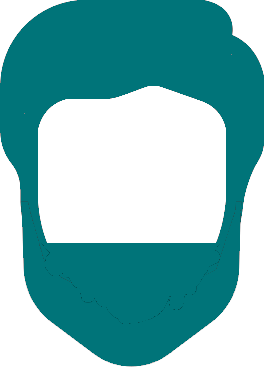
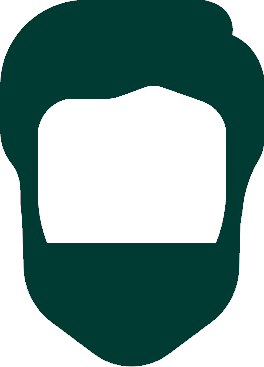
change to dark green

diff --git a/main.css b/main.css
@@ -15,6 +15,8 @@ Aqua: #006266
 Yellow: #F79F1F
 Orange: #EE5A24
 
+Dark Green: #003b33;
+
 -->
 
 /*
@@ -123,7 +125,7 @@ background-color: #ecf0f1;
 */
 
 .spacing {
-    background-color: #006266;
+    background-color: #003b33;
 }
 
 .spacing .container h1 {
@@ -138,7 +140,7 @@ background-color: #ecf0f1;
 }
 
 .links {
-    background-color: #006266;
+    background-color: #003b33;
     height: auto;
 }
 
@@ -150,8 +152,8 @@ background-color: #ecf0f1;
 }
 
 .links .container .row .col-md-3 .thumbnail {
-    background-color: #006266;
-    border: 1px solid #006266;
+    background-color: #003b33;
+    border: 1px solid #003b33;
     position: relative;
     top: 10px;
     padding-top: 15px;
@@ -174,7 +176,7 @@ background-color: #ecf0f1;
 
 .bottom-box {
     padding-top:10px;
-    background-color:#006266;
+    background-color:#003b33;
 }
 
 
@@ -195,7 +197,7 @@ a.otherlink:visited {
 }
 
 .custom-nav {
-    background-color:#006266;
+    background-color:#003b33;
     min-height:100px;
 }
 
@@ -235,7 +237,7 @@ a.otherlink:visited {
     font-size:20px;
     font-weight:400;
     line-height:1.6;
-    color:#006266;
+    color:#003b33;
     margin-bottom: 2rem;
 }
 
@@ -251,7 +253,7 @@ a.otherlink:visited {
     font-family:'Deja Vu', sans-serif;
     font-size:16px;
     font-weight:400;
-    color:#006266;
+    color:#003b33;
     font-style: italic;
     padding-top:1rem;
     width:70%;
@@ -264,7 +266,7 @@ a.otherlink:visited {
     font-family:'League Spartan Bold', 'Deja Vu', sans-serif;
     font-size:18px;
     font-weight:600;
-    color:#006266;
+    color:#003b33;
 }
 
 .beard-highlight {
@@ -292,7 +294,7 @@ a.otherlink:visited {
 }
 
 .ui-slider {
-    background-color:#006266!important;
+    background-color:#003b33!important;
     height:0.75em!important;
 }
 
@@ -307,10 +309,10 @@ a.otherlink:visited {
     content: url(slider_arrows_small.png);
     height:10px;
 /*    font-size:.5rem;*/
-    color:#006266;
+    color:#003b33;
     position:absolute;
-    top:-3px;
-    left:1px;
+    top:-4px;
+    left:2px;
 }
 
 svg {
@@ -336,14 +338,14 @@ svg {
 }
 
 .mustache-button {
-    border: 3px #006266 solid;
+    border: 3px #003b33 solid;
     border-radius: 6px;
 /*
     color:#006266;
     background-color:#ffffff;
 */
     color:#ffffff;
-    background-color:#006266;
+    background-color:#003b33;
     font-family:'Deja Vu',sans-serif;
     font-weight:400;
     margin-left:auto;
@@ -363,7 +365,7 @@ svg {
 /*NEW FOOTER*/
 
 footer {
-     background-color:#006266;
+     background-color:#003b33;
 }
 
 .contact-bar {
@@ -403,7 +405,7 @@ footer {
 }
 
 #credit {
-    background-color:#006266;
+    background-color:#003b33;
     padding-top:20px;
     padding-bottom:20px;
 
@@ -430,7 +432,7 @@ footer {
 }
 
 .project-title hr {
-    border-color:#006266;
+    border-color:#003b33;
 }
 
 .project-row h2 {
@@ -438,7 +440,7 @@ footer {
     font-size:24px;
     font-weight:600;
     line-height:1.6;
-    color:#006266;
+    color:#003b33;
     color:#EE5A24;
 /*    font-style:italic;*/
     margin-bottom:1em;
@@ -449,7 +451,7 @@ footer {
     font-size:18px;
     font-weight:400;
     line-height:1.6;
-    color:#006266;
+    color:#003b33;
 }
 
 .project-row a {

diff --git a/index.html b/index.html
@@ -160,7 +160,7 @@
             <div class="home-text  col-md-6 col-12 pr-5 pl-5">
             <h2 class="intro-header mobile-title">Hi, I'm Nathan.</h2>
             <p class="mobile-body">Thanks for visiting my website! Some of the things I like are: golf, basketball, reading, chess, design thinking, web app development, choral singing, and the Oregon Ducks.</p>
-            <p class="mobile-body">Right now, I'm getting my MBA at Columbia. After that, I'll be moving to Austin, TX in May. If you want to chat, drop me a line&mdash;I'd love to hear from you.</p>
+            <p class="mobile-body">If you want to chat, drop me a line with the links below&mdash;I'd love to hear from you.</p>
 <!--
                 <p>Hello, and thanks for visiting this site. My name is Nathan Pilkenton. I was born and raised in Portland, Oregon, and graduated from Davidson College in May 2015. After college, I worked as a Business Analyst and Engagement Manager at McKinsey &amp; Company in Charlotte and Houston. Currently, I am an MBA candidate at the Columbia University Graduate School of Business.</p>
                 <p>My interests include choral singing, playing basketball, golf, and other sports, and cheering on the Oregon Ducks. Please feel free to contact me via the buttons below, which link to my social media and email, or check out some of the things I have been working on in the Projects section. </p>
